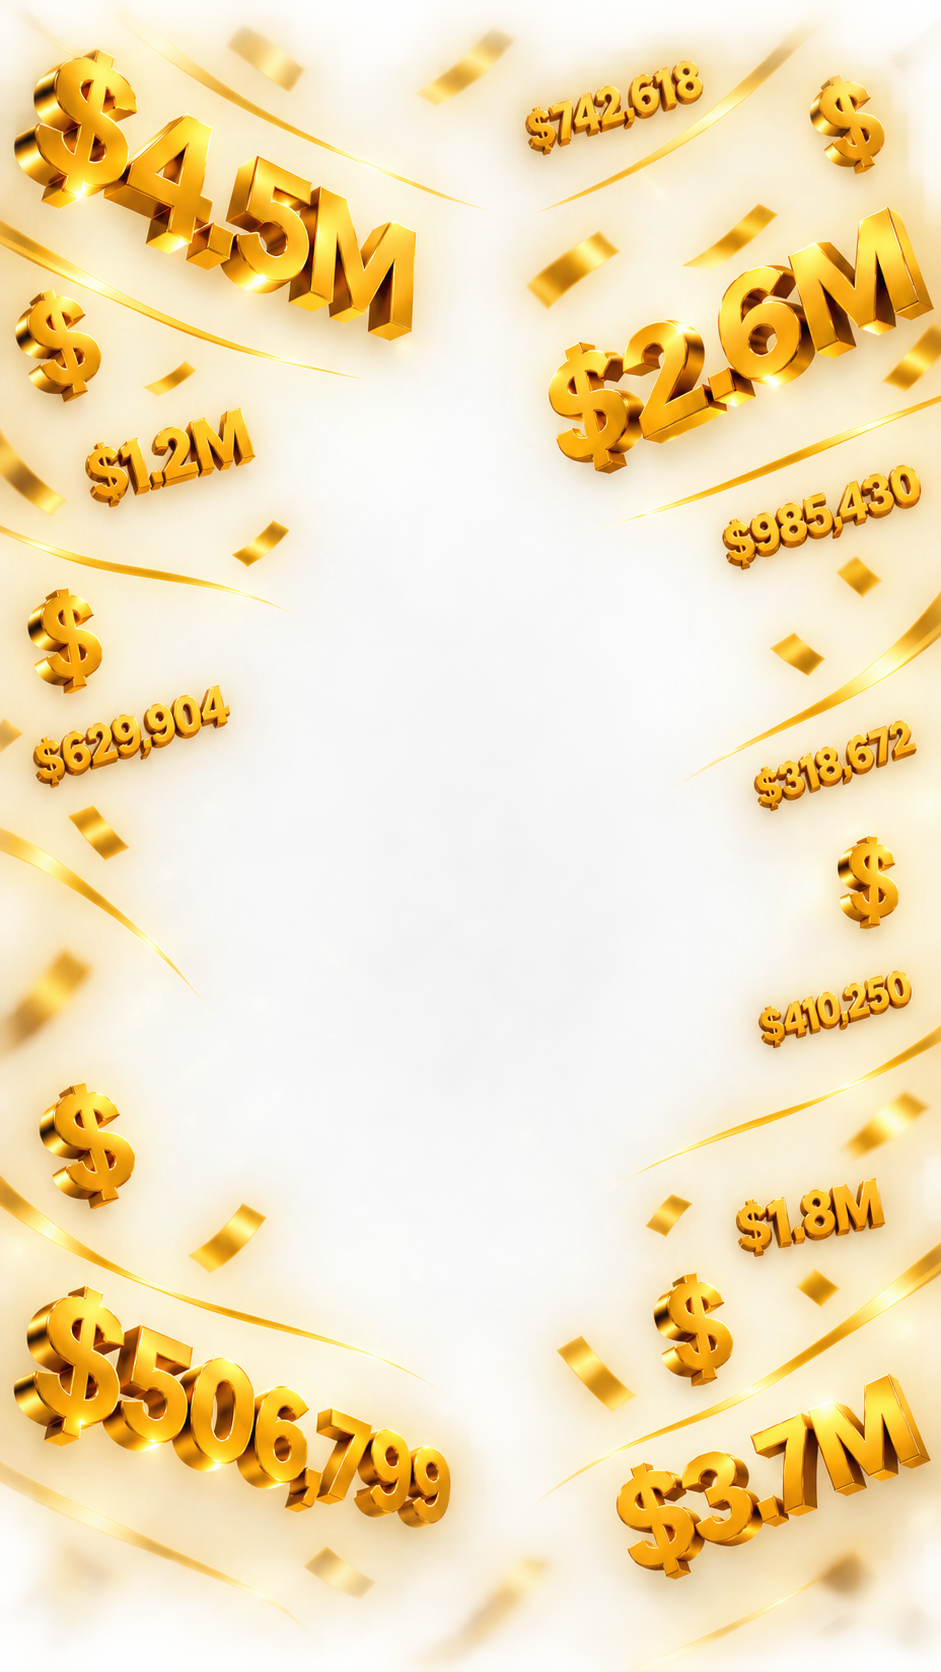
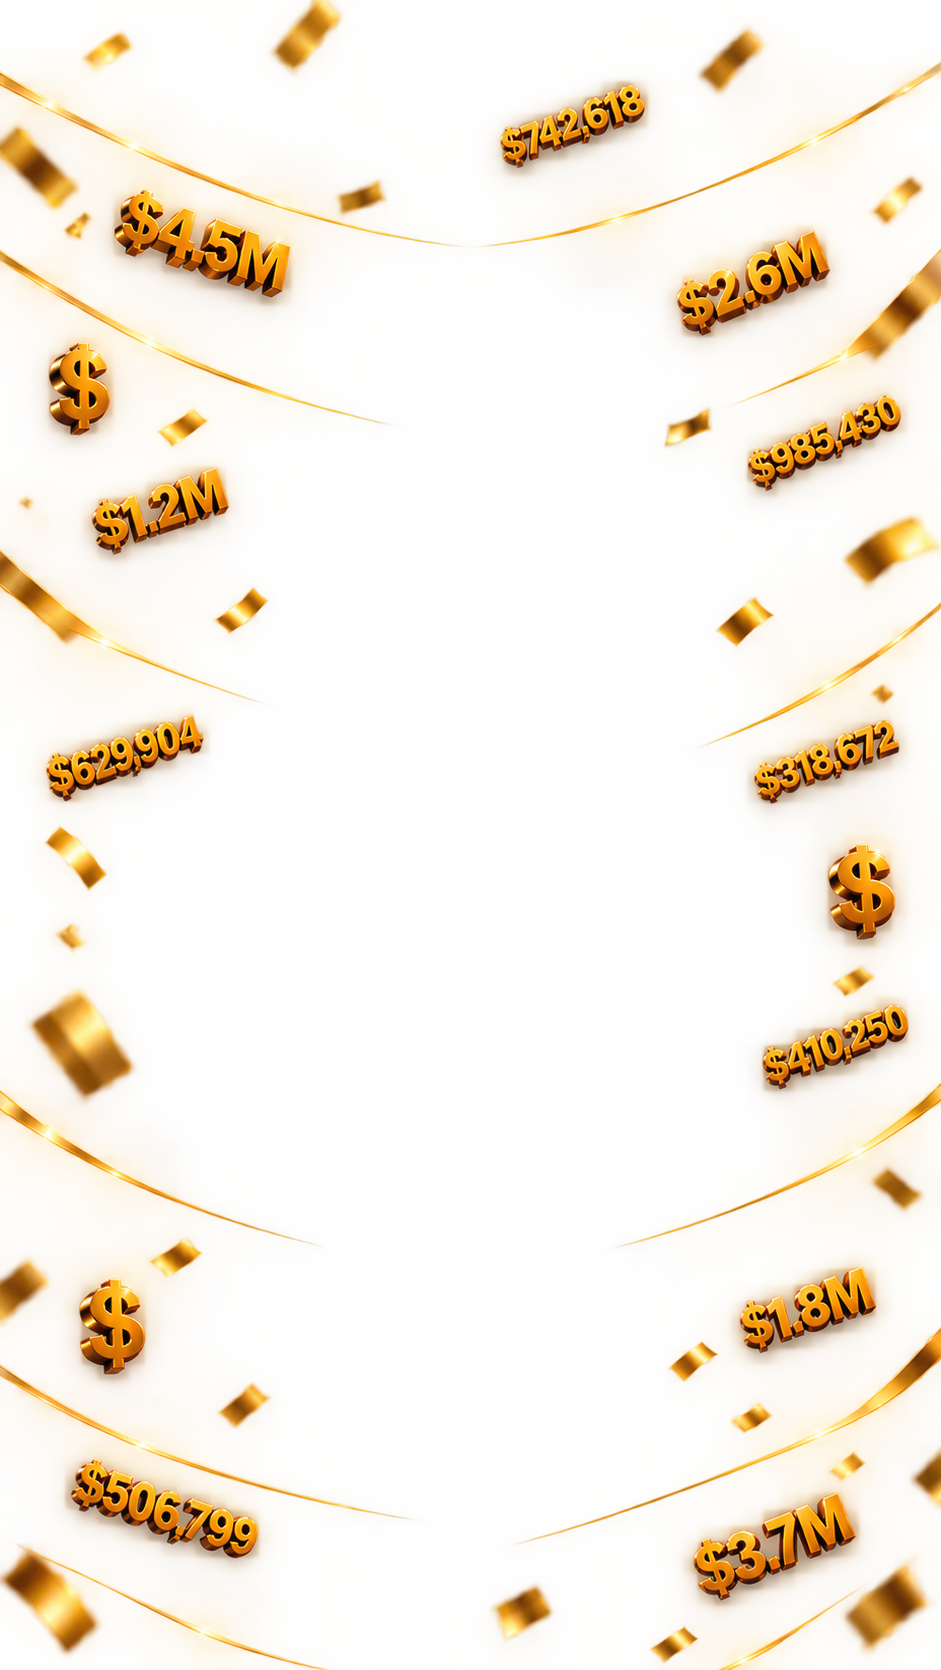
fix hero-bg

diff --git a/components/hero.tsx b/components/hero.tsx
@@ -23,20 +23,20 @@ export function Hero() {
 
   return (
     <section className="relative isolate overflow-hidden border-b border-border/40 pt-20 pb-16 md:pt-28 md:pb-24 bg-background">
-      {/* Background Image - Mobile View (hero-bg2.png) */}
-      <div className="block md:hidden absolute inset-0 -z-10 pointer-events-none">
+      {/* Mobile Background Image (hero-bg2.png) */}
+      <div className="md:hidden absolute inset-0 -z-10 pointer-events-none">
         <Image
           src="/hero-bg2.png"
           alt="Propfident Mobile Hero Background"
           fill
           priority
           sizes="100vw"
-          className="object-cover object-center opacity-90"
+          className="object-cover object-center"
         />
-        <div className="absolute inset-0 bg-gradient-to-b from-background/20 via-background/60 to-background dark:from-background/40 dark:via-background/80 dark:to-background" />
+        <div className="absolute inset-0 bg-background/40" />
       </div>
 
-      {/* Background Image - Desktop View (hero-bg.png) */}
+      {/* Desktop Background Image (hero-bg.png) */}
       <div className="hidden md:block absolute inset-0 -z-10 pointer-events-none">
         <Image
           src="/hero-bg.png"
